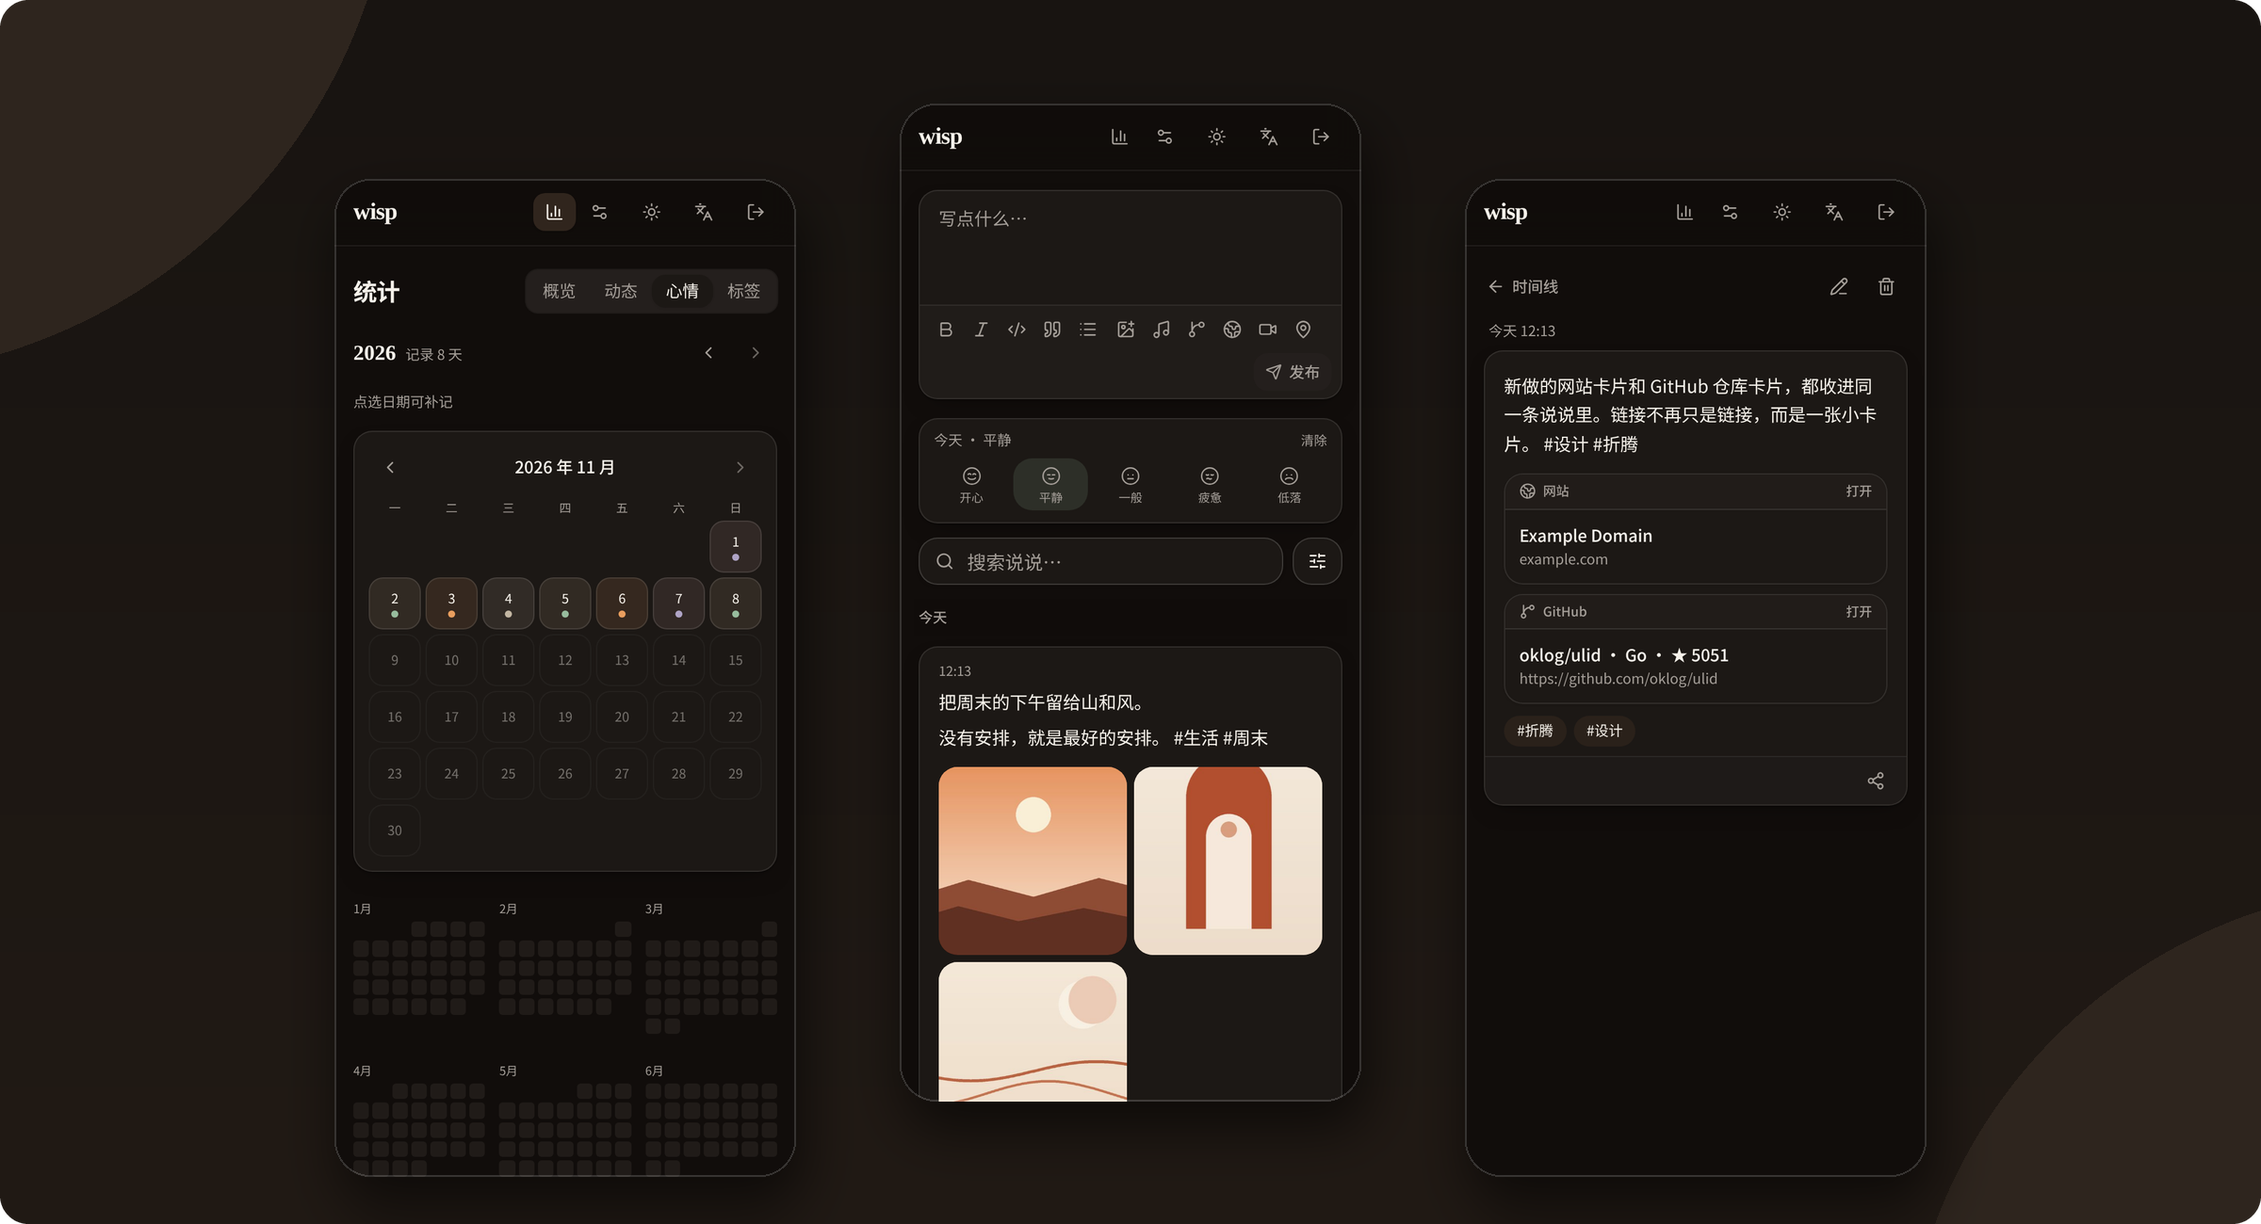
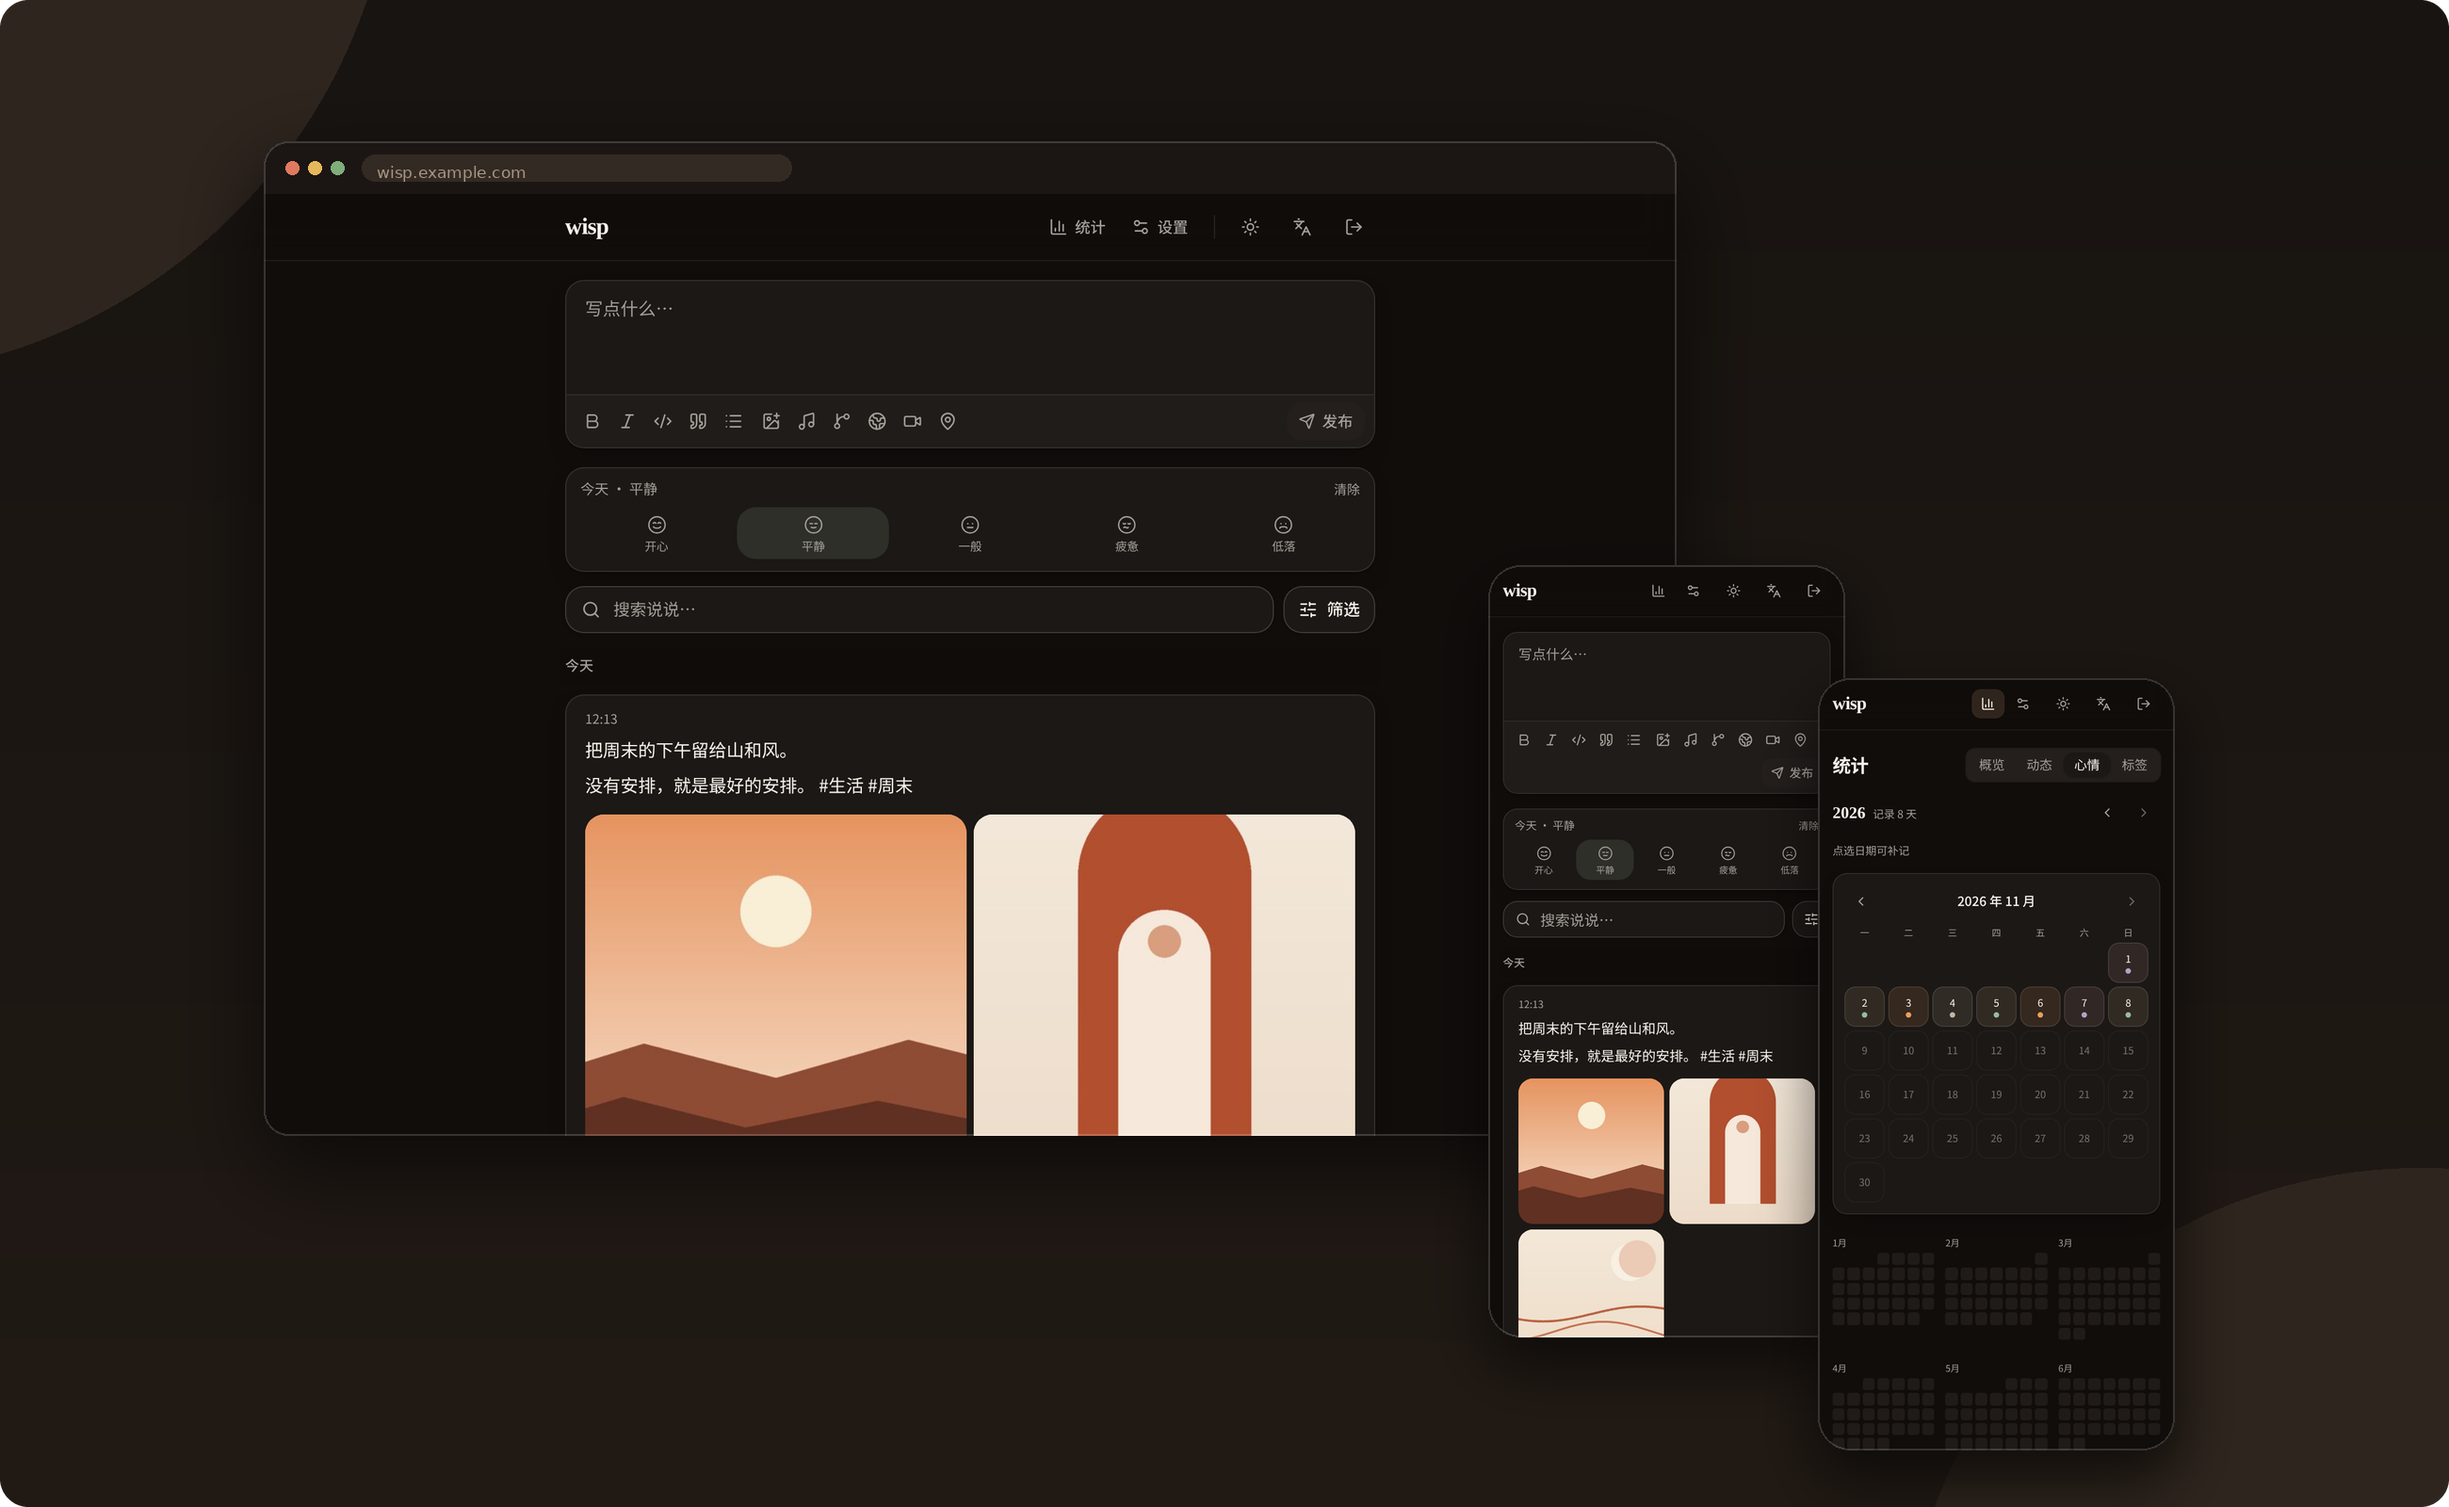
docs(readme): show desktop and mobile previews

diff --git a/README.md b/README.md
@@ -23,8 +23,10 @@
 <p align="center">
   <picture>
     <source media="(prefers-color-scheme: dark)" srcset="docs/assets/screenshots/hero-dark.png">
-    <img src="docs/assets/screenshots/hero-light.png" width="100%" alt="Wisp 界面：说说详情、时间线与每日心情">
+    <img src="docs/assets/screenshots/hero-light.png" width="100%" alt="Wisp 桌面端与移动端界面：时间线与每日心情">
   </picture>
+  <br>
+  <sub>桌面端与移动端 · 时间线 / 每日心情</sub>
 </p>
 
 ## 为什么是 Wisp
@@ -69,24 +71,6 @@
     </td>
   </tr>
 </table>
-
-<details>
-<summary>更多截图</summary>
-
-<br>
-
-<table align="center">
-  <tr>
-    <td align="center"><img src="docs/assets/screenshots/home-light.png" width="300" alt="时间线 · 浅色"><br><sub>时间线 · 浅色</sub></td>
-    <td align="center"><img src="docs/assets/screenshots/home-dark.png" width="300" alt="时间线 · 深色"><br><sub>时间线 · 深色</sub></td>
-  </tr>
-  <tr>
-    <td align="center"><img src="docs/assets/screenshots/mood.png" width="300" alt="每日心情 · 月度补记与年度概览"><br><sub>每日心情</sub></td>
-    <td align="center"><img src="docs/assets/screenshots/post-detail.png" width="300" alt="扩展卡片"><br><sub>扩展卡片</sub></td>
-  </tr>
-</table>
-
-</details>
 
 ## 快速开始
 

diff --git a/CHANGELOG.md b/CHANGELOG.md
@@ -4,7 +4,7 @@
 
 ### 文档
 
-- **README**：重排为「品牌字标 → 双主题界面预览 → 差异化 → 功能矩阵 → 快速开始」；新增浅色 / 深色 hero 预览图，单屏截图收进折叠区；Docker 一键启动改用命名卷并已实测；配置、API、开发与文档入口精简
+- **README**：重排为「品牌字标 → 双主题界面预览 → 差异化 → 功能矩阵 → 快速开始」；hero 同时展示桌面浏览器与两台手机，浅色 / 深色自动切换；去掉多余单屏截图；Docker 一键启动改用命名卷并已实测；配置、API、开发与文档入口精简
 
 ## [0.4.1] - 2026-11-08
 
